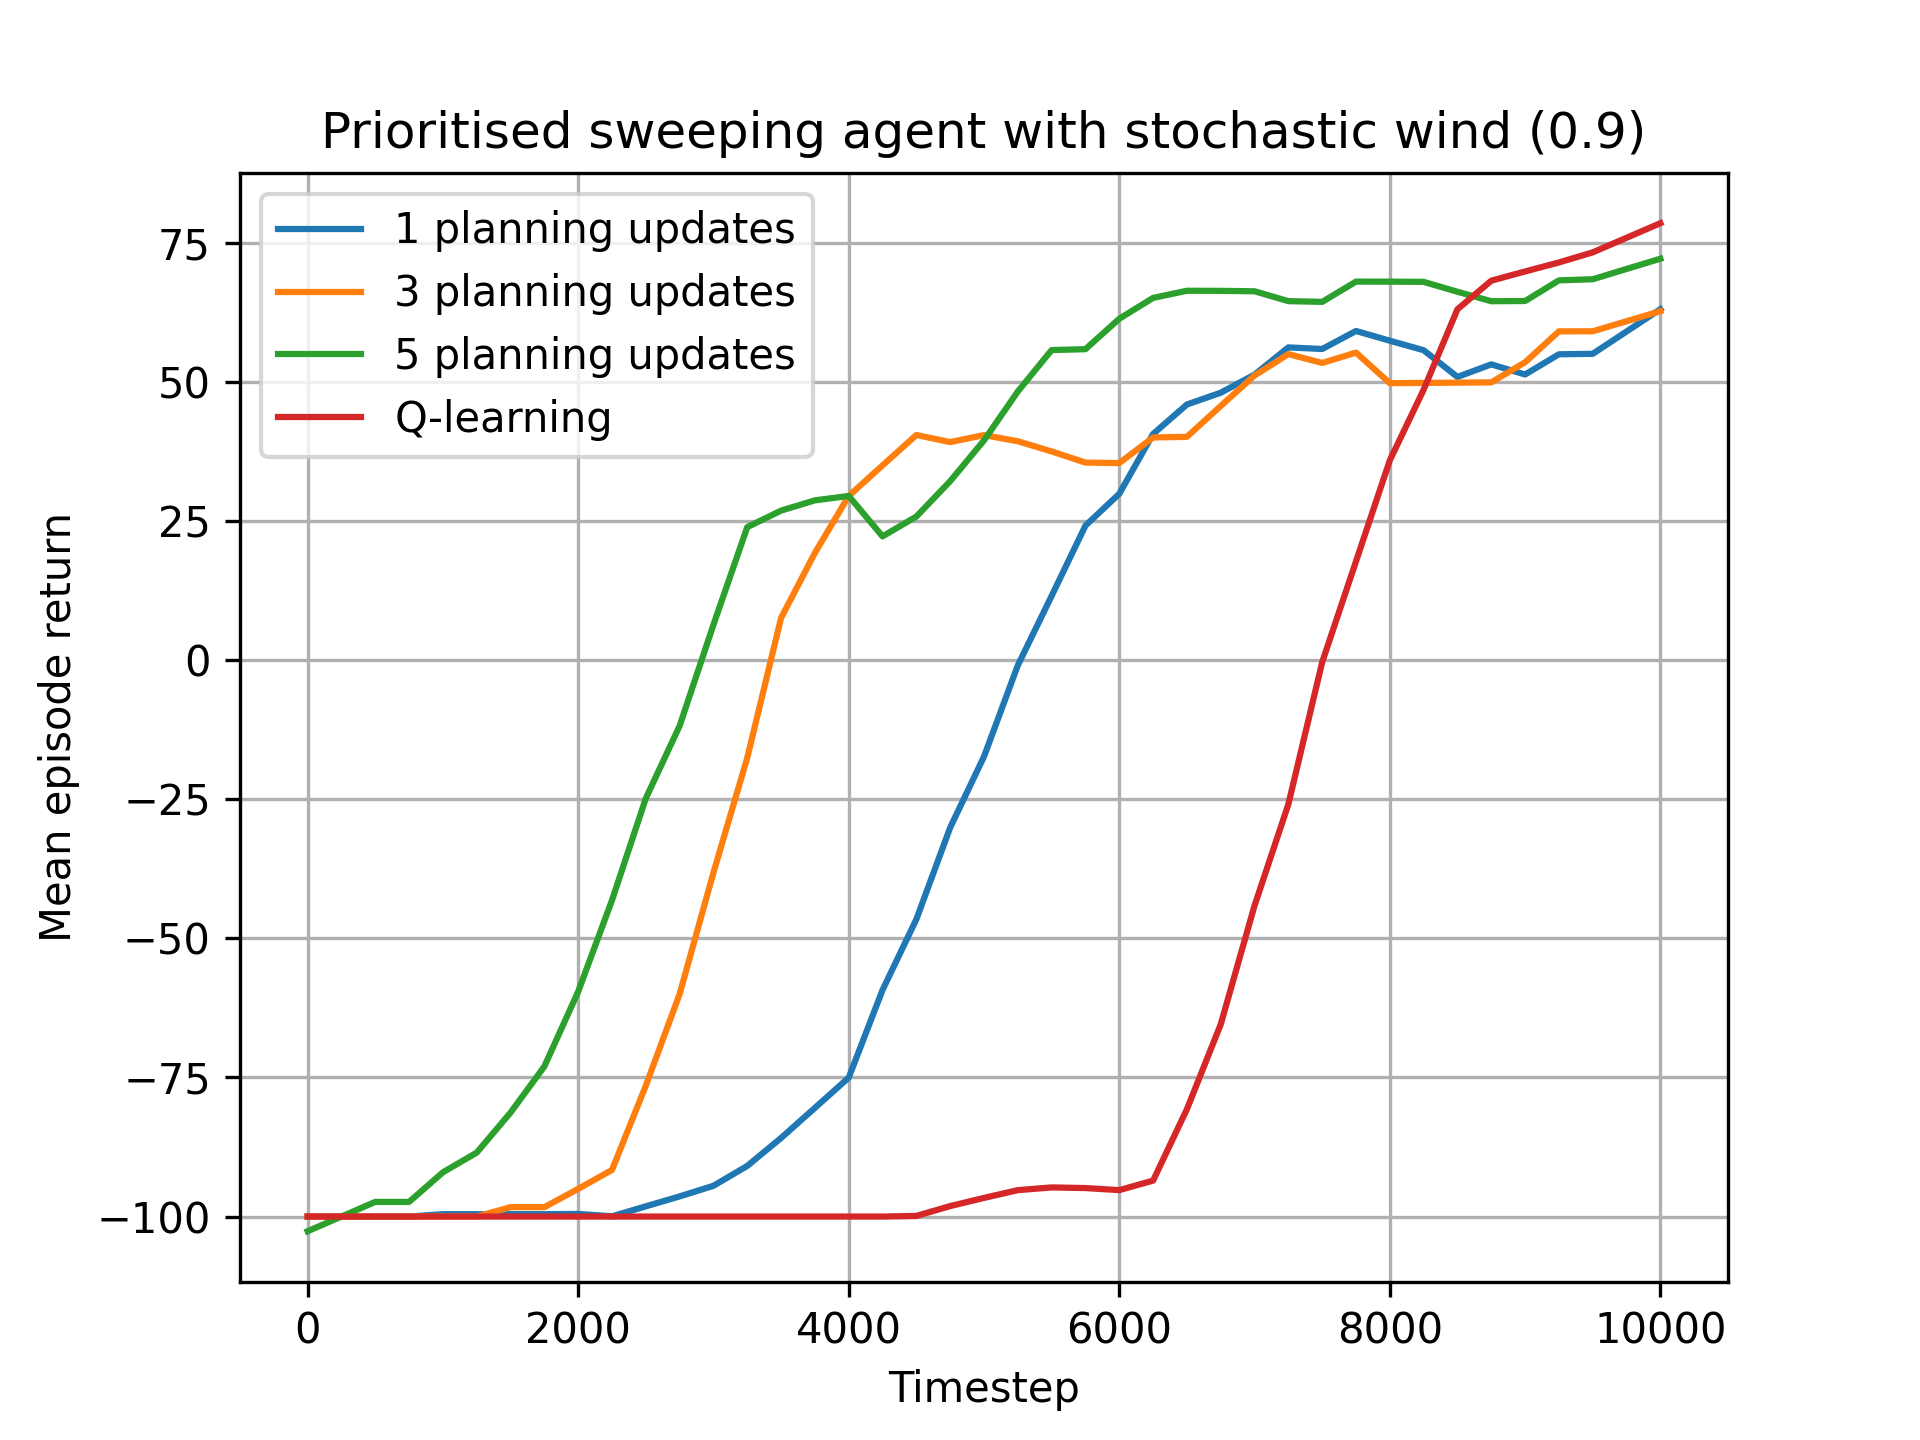
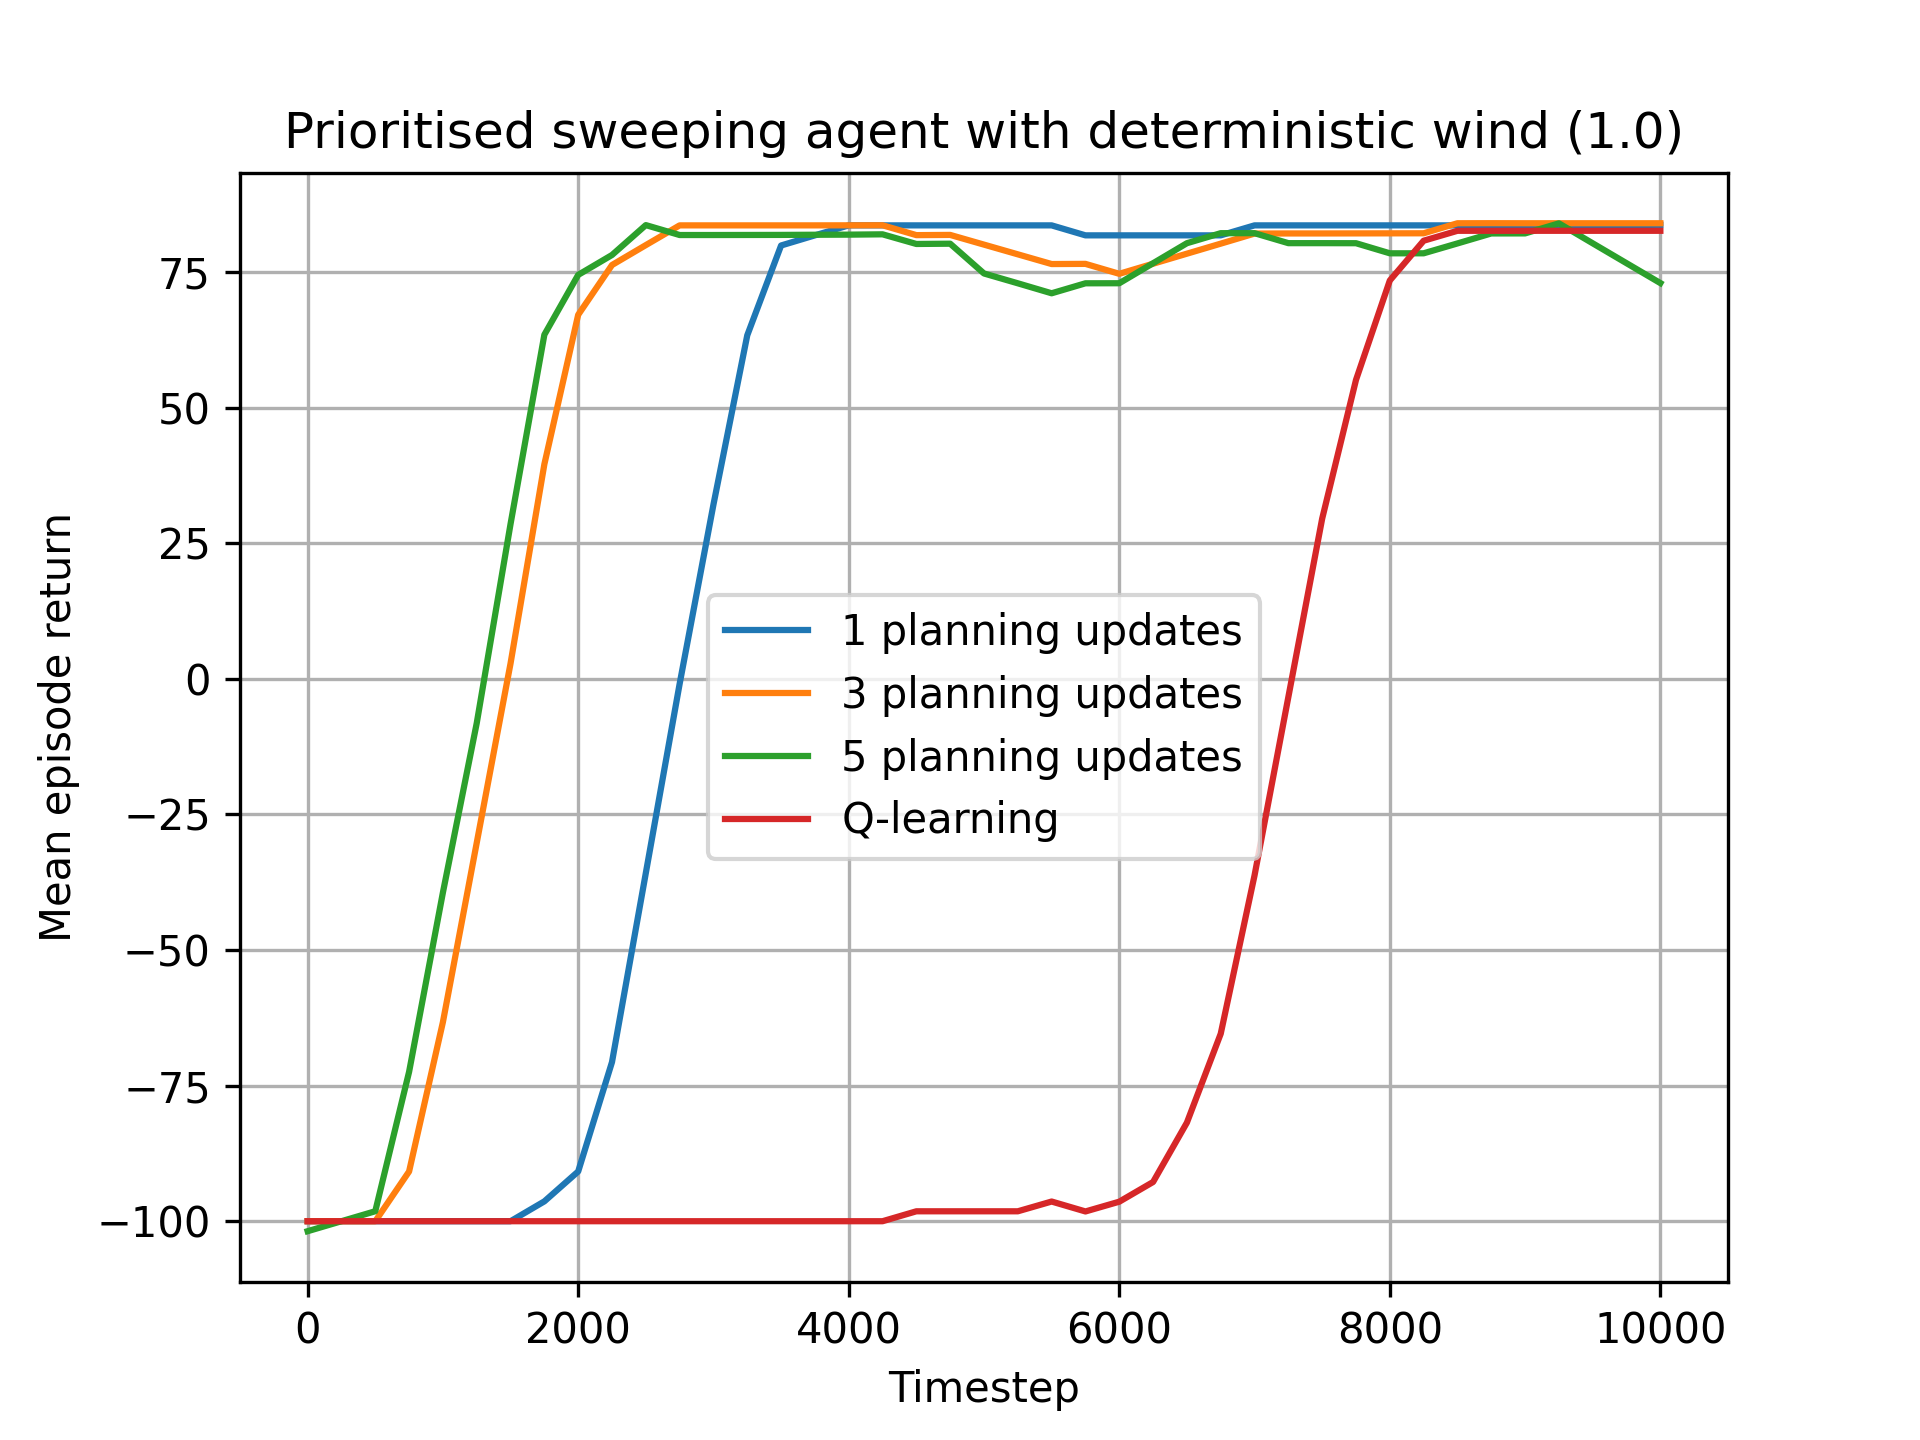
final thing i hope

diff --git a/MBRLExperiment.py b/MBRLExperiment.py
@@ -8,6 +8,7 @@ By Thomas Moerland
 """
 import numpy as np
 import matplotlib.pyplot as plt
+import time
 from MBRLEnvironment import WindyGridworld
 from MBRLAgents import DynaAgent, PrioritizedSweepingAgent
 from Helper import LearningCurvePlot, smooth
@@ -104,12 +105,115 @@ def run_experiment(agent_class):
     if agent_class == DynaAgent:
         plot_deterministic.save("dyna_deterministic.png")
     elif agent_class == PrioritizedSweepingAgent: 
-        plot_stochastic.save("ps_deterministic.png")
+        plot_deterministic.save("ps_deterministic.png")
 
 
     plt.show()
 
 
+def compare_best_models():
+    n_timesteps = 10001
+    eval_interval = 250
+    n_repetitions = 20
+    epsilon = 0.1
+    learning_rate = 0.2
+
+    best_dyna_K = 5
+    best_ps_K = 5
+    x = np.arange(0, n_timesteps, eval_interval)
+
+    #stochastic comparison
+    stochastic_plot = LearningCurvePlot(title="Best models comparison (stochastic wind 0.9)")
+    stochastic_plot.ax.set_xlabel("Timestep")
+    stochastic_plot.ax.set_ylabel("Mean episode return")
+    stochastic_plot.ax.grid(True)
+
+    dyna_curve = run_repetitions(DynaAgent, best_dyna_K, epsilon, learning_rate, 0.9, n_timesteps, eval_interval, n_repetitions)
+    ps_curve = run_repetitions(PrioritizedSweepingAgent, best_ps_K, epsilon, learning_rate, 0.9, n_timesteps, eval_interval, n_repetitions)
+    q_curve = run_repetitions(DynaAgent, 0, epsilon, learning_rate, 0.9, n_timesteps, eval_interval, n_repetitions)
+
+    stochastic_plot.add_curve(x[:len(dyna_curve)], smooth(dyna_curve, window=5), label=f"Dyna (K={best_dyna_K})")
+    stochastic_plot.add_curve(x[:len(ps_curve)], smooth(ps_curve, window=5), label=f"Prioritized Sweeping (K={best_ps_K})")
+    stochastic_plot.add_curve(x[:len(q_curve)], smooth(q_curve, window=5), label="Q-learning")
+
+    stochastic_plot.save("comparison_stochastic.png")
+
+    #deterministic comparison
+    deterministic_plot = LearningCurvePlot(title="Best models comparison (deterministic wind 1.0)")
+    deterministic_plot.ax.set_xlabel("Timestep")
+    deterministic_plot.ax.set_ylabel("Mean episode return")
+    deterministic_plot.ax.grid(True)
+
+    dyna_curve = run_repetitions(DynaAgent, best_dyna_K, epsilon, learning_rate, 1.0, n_timesteps, eval_interval, n_repetitions)
+    ps_curve = run_repetitions(PrioritizedSweepingAgent, best_ps_K, epsilon, learning_rate, 1.0, n_timesteps, eval_interval, n_repetitions)
+    q_curve = run_repetitions(DynaAgent, 0, epsilon, learning_rate, 1.0, n_timesteps, eval_interval, n_repetitions)
+
+    deterministic_plot.add_curve(x[:len(dyna_curve)], smooth(dyna_curve, window=5), label=f"Dyna (K={best_dyna_K})")
+    deterministic_plot.add_curve(x[:len(ps_curve)], smooth(ps_curve, window=5), label=f"Prioritized Sweeping (K={best_ps_K})")
+    deterministic_plot.add_curve(x[:len(q_curve)], smooth(q_curve, window=5), label="Q-learning")
+
+    deterministic_plot.save("comparison_deterministic.png")
+
+    plt.show()
+
+def measure_runtime(agent_class, n_planning_updates):
+    n_timesteps = 10001
+    epsilon = 0.1
+    learning_rate = 0.2
+    gamma = 1.0
+
+    #create environment and agent
+    env = WindyGridworld(wind_proportion=0.9)
+    agent = agent_class(env.n_states, env.n_actions, learning_rate, gamma)
+    s = env.reset()
+
+    start_time = time.time()
+
+    #run one repetition
+    for _ in range(n_timesteps):
+        a = agent.select_action(s, epsilon)
+        s_next, r, done = env.step(a)
+
+        #learning + planning updates
+        agent.update(s, a, r, done, s_next, n_planning_updates)
+
+        #reset episode if goal reached
+        s = env.reset() if done else s_next
+
+    return time.time() - start_time
+
+
+def runtime_table():
+    n_repetitions = 10
+    K = 5
+
+    qlearning_times = []
+    dyna_times = []
+    ps_times = []
+
+    #measure runtime repeatedly and average
+    for _ in range(n_repetitions):
+        qlearning_times.append(measure_runtime(DynaAgent, 0))
+        dyna_times.append(measure_runtime(DynaAgent, K))
+        ps_times.append(measure_runtime(PrioritizedSweepingAgent, K))
+
+    #compute averages
+    qlearning_mean = np.mean(qlearning_times)
+    dyna_mean = np.mean(dyna_times)
+    ps_mean = np.mean(ps_times)
+
+    #print formatted table
+    print("\nAverage Runtime over", n_repetitions, "runs\n")
+    print("+-------------------------------+------------------+")
+    print("| Algorithm                     | Runtime (s)      |")
+    print("+-------------------------------+------------------+")
+    print(f"| Q-learning                    | {qlearning_mean:<16.4f} |")
+    print(f"| Dyna (K={K})                  | {dyna_mean:<16.4f} |")
+    print(f"| Prioritized Sweeping (K={K})  | {ps_mean:<16.4f} |")
+    print("+-------------------------------+------------------+")
+
 #run functions
 run_experiment(DynaAgent)
-#run_experiment(PrioritizedSweepingAgent)
+run_experiment(PrioritizedSweepingAgent)
+compare_best_models()
+runtime_table()

diff --git a/MBRLAgents.py b/MBRLAgents.py
@@ -101,6 +101,7 @@ class PrioritizedSweepingAgent:
         else: #exploit 
             a = np.argmax(self.Q_sa[s])
         return a
+    
     def update(self, s, a, r, done, s_next, n_planning_updates):
         #update Q-table values using real experience 
         if done: